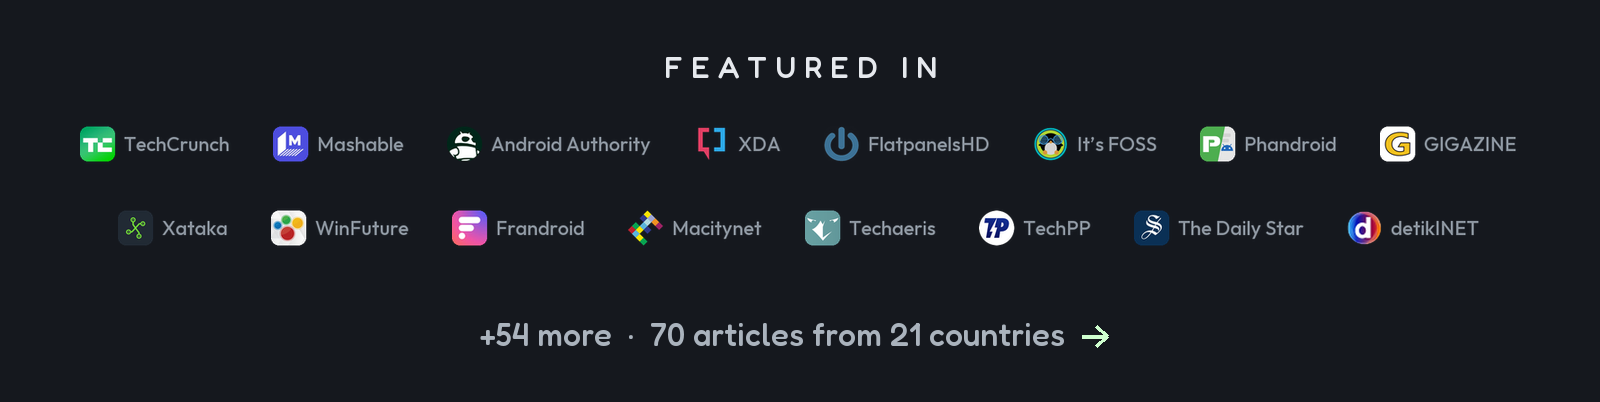
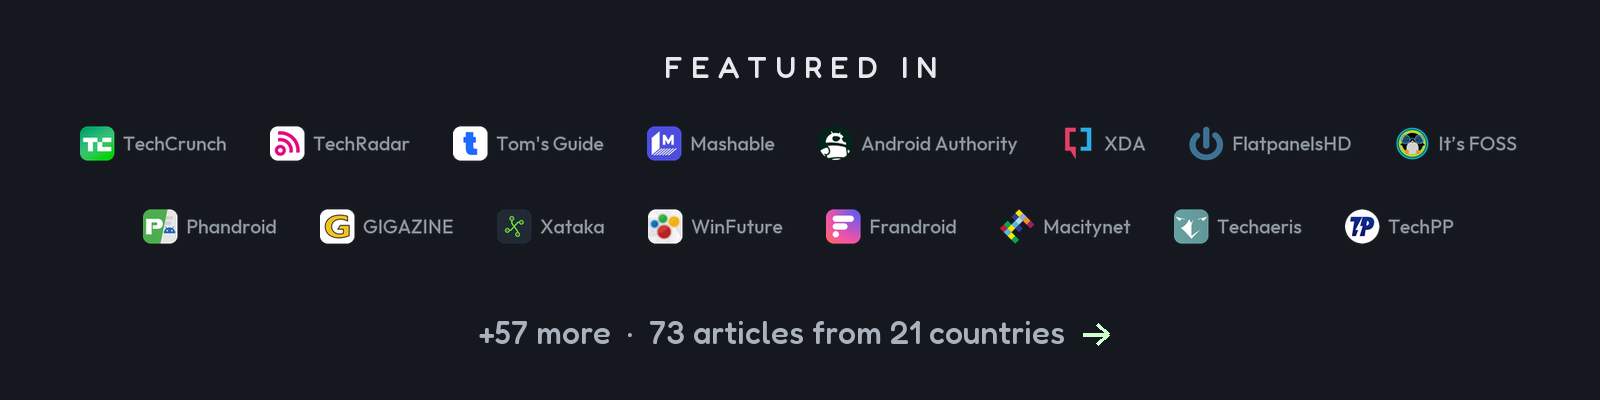
Press: TechRadar, Tom's Guide and Decrypt (73 articles); both big names join the README card

diff --git a/tools/readme_featured.py b/tools/readme_featured.py
@@ -5,9 +5,9 @@ and rebuild the card with tools/readme_card.py. Logos come from docs/press/."""
 import sys
 from PIL import Image, ImageDraw, ImageFont
 FONT, OUT = sys.argv[1], sys.argv[2]
-LOGOS = ["techcrunch", "mashable", "androidauthority", "xda", "flatpanelshd", "itsfoss", "phandroid", "gigazine",
-         "xataka", "winfuture", "frandroid", "macitynet", "techaeris", "techpp", "thedailystar", "detikinet"]
-MORE = "+54 more  ·  70 articles from 21 countries"
+LOGOS = ["techcrunch", "techradar", "tomsguide", "mashable", "androidauthority", "xda", "flatpanelshd", "itsfoss",
+         "phandroid", "gigazine", "xataka", "winfuture", "frandroid", "macitynet", "techaeris", "techpp"]
+MORE = "+57 more  ·  73 articles from 21 countries"
 W, LH, GAP, ROWGAP, PAD = 1600, 54, 40, 36, 80
 def f(size, wt):
     x = ImageFont.truetype(FONT, size); x.set_variation_by_axes([wt]); return x

diff --git a/docs/PRESS.md b/docs/PRESS.md
@@ -1,10 +1,10 @@
 # CleanYourTV in the press
 
-Every article about CleanYourTV (called tv-vibehack until 19 October 2026) that we could open and check: **70 articles**, 46 of them from outlets in 21 countries, 4 from Spanish-language sites in Latin America and 20 from newsletters, blogs and AI news sites. Headlines are in the language they were published in. Syndicated copies and auto-generated listings are left out.
+Every article about CleanYourTV (called tv-vibehack until 19 October 2026) that we could open and check: **73 articles**, 49 of them from outlets in 21 countries, 4 from Spanish-language sites in Latin America and 20 from newsletters, blogs and AI news sites. Headlines are in the language they were published in. Syndicated copies and auto-generated listings are left out.
 
 Wrote about it and not here? Open an issue or a pull request with the link.
 
-[United States](#united-states)&nbsp;7 · [United Kingdom](#united-kingdom)&nbsp;1 · [India](#india)&nbsp;2 · [Denmark](#denmark)&nbsp;1 · [Japan](#japan)&nbsp;2 · [Bangladesh](#bangladesh)&nbsp;1 · [United Arab Emirates](#united-arab-emirates)&nbsp;1 · [France](#france)&nbsp;3 · [Germany](#germany)&nbsp;2 · [Spain](#spain)&nbsp;2 · [Italy](#italy)&nbsp;1 · [Norway](#norway)&nbsp;1 · [Portugal](#portugal)&nbsp;1 · [Czechia](#czechia)&nbsp;1 · [Greece](#greece)&nbsp;1 · [Egypt](#egypt)&nbsp;1 · [Brazil](#brazil)&nbsp;3 · [Latin America (Spanish-language)](#latin-america-spanish-language)&nbsp;4 · [China](#china)&nbsp;7 · [Taiwan](#taiwan)&nbsp;1 · [Indonesia](#indonesia)&nbsp;6 · [Thailand](#thailand)&nbsp;1 · [Online (newsletters, blogs, AI news)](#online-newsletters-blogs-ai-news)&nbsp;20
+[United States](#united-states)&nbsp;9 · [United Kingdom](#united-kingdom)&nbsp;2 · [India](#india)&nbsp;2 · [Denmark](#denmark)&nbsp;1 · [Japan](#japan)&nbsp;2 · [Bangladesh](#bangladesh)&nbsp;1 · [United Arab Emirates](#united-arab-emirates)&nbsp;1 · [France](#france)&nbsp;3 · [Germany](#germany)&nbsp;2 · [Spain](#spain)&nbsp;2 · [Italy](#italy)&nbsp;1 · [Norway](#norway)&nbsp;1 · [Portugal](#portugal)&nbsp;1 · [Czechia](#czechia)&nbsp;1 · [Greece](#greece)&nbsp;1 · [Egypt](#egypt)&nbsp;1 · [Brazil](#brazil)&nbsp;3 · [Latin America (Spanish-language)](#latin-america-spanish-language)&nbsp;4 · [China](#china)&nbsp;7 · [Taiwan](#taiwan)&nbsp;1 · [Indonesia](#indonesia)&nbsp;6 · [Thailand](#thailand)&nbsp;1 · [Online (newsletters, blogs, AI news)](#online-newsletters-blogs-ai-news)&nbsp;20
 
 ## United States
 
@@ -16,12 +16,15 @@ Wrote about it and not here? Open an issue or a pull request with the link.
 | XDA | [People are now vibe-coding their smart TVs to strip them of ads and unwanted features](https://www.xda-developers.com/people-are-now-vibe-coding-their-smart-tvs-to-strip-them-of-ads-and-unwanted-features/) | 19&nbsp;Oct |
 | Phandroid | [Smart TV Owners Are Using AI to Strip the Ads Off Their Sets](https://phandroid.com/2026/10/20/smart-tv-owners-are-using-ai-to-strip-the-ads-off-their-sets/) | 20&nbsp;Oct |
 | Techaeris | [Android TV Debloat Gets a Free tvOS-Style Makeover](https://techaeris.com/2026/10/18/android-tv-debloat-tvos-style-makeover/) | 18&nbsp;Oct |
+| Tom's Guide | [People are using AI to turn their smart TVs into dumb TVs — and you might want to do the same](https://www.tomsguide.com/ai/people-are-using-ai-to-turn-their-smart-tvs-into-dumb-tvs-and-you-might-want-to-do-the-same) | 20&nbsp;Oct |
+| Decrypt | [People Are Vibe Coding the Ads Out of Their Smart TVs: Here's How](https://decrypt.co/381456/vibe-coding-ads-out-smart-tvs-heres-how) | 20&nbsp;Oct |
 | Gadget Review (on Yahoo Tech) | [Developers Are Using AI to Strip Ads and Tracking From Smart TVs](https://tech.yahoo.com/ai/meta-ai/articles/developers-using-ai-strip-ads-185856468.html) | 19&nbsp;Oct |
 
 ## United Kingdom
 
 | Outlet | Article | Date |
 | --- | --- | --- |
+| TechRadar | [‘Your TV should do what you paid for’: People are so sick of ads, trackers and bloat in their smart TVs that they're using AI to vibe code them away](https://www.techradar.com/entertainment/streaming/your-tv-should-do-what-you-paid-for-people-are-vibe-coding-apps-to-banish-ads-from-their-smart-tvs-and-android-tv-and-its-catching-on) | 20&nbsp;Oct |
 | Tech Times | [Man Asks AI with a Simple Prompt 'Can You Hack This?' to Fix His TV: Now Everyone Wants to Copy Him](https://www.techtimes.co.uk/ai-smart-tv-bloatware-performance-fix-1809233) | 19&nbsp;Oct |
 
 ## India
